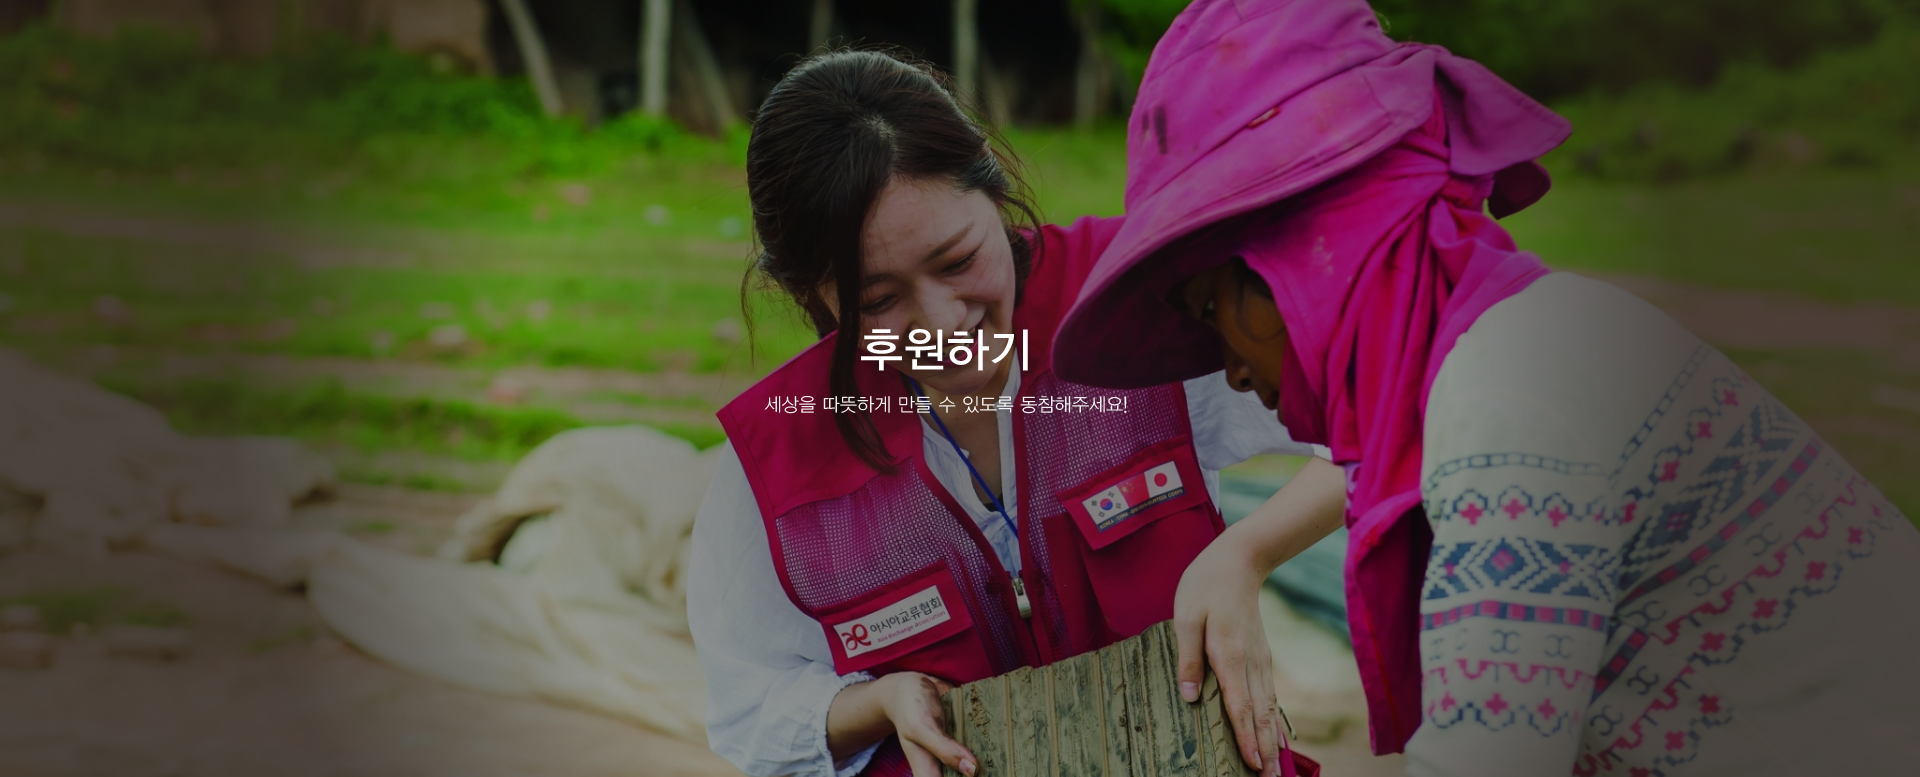
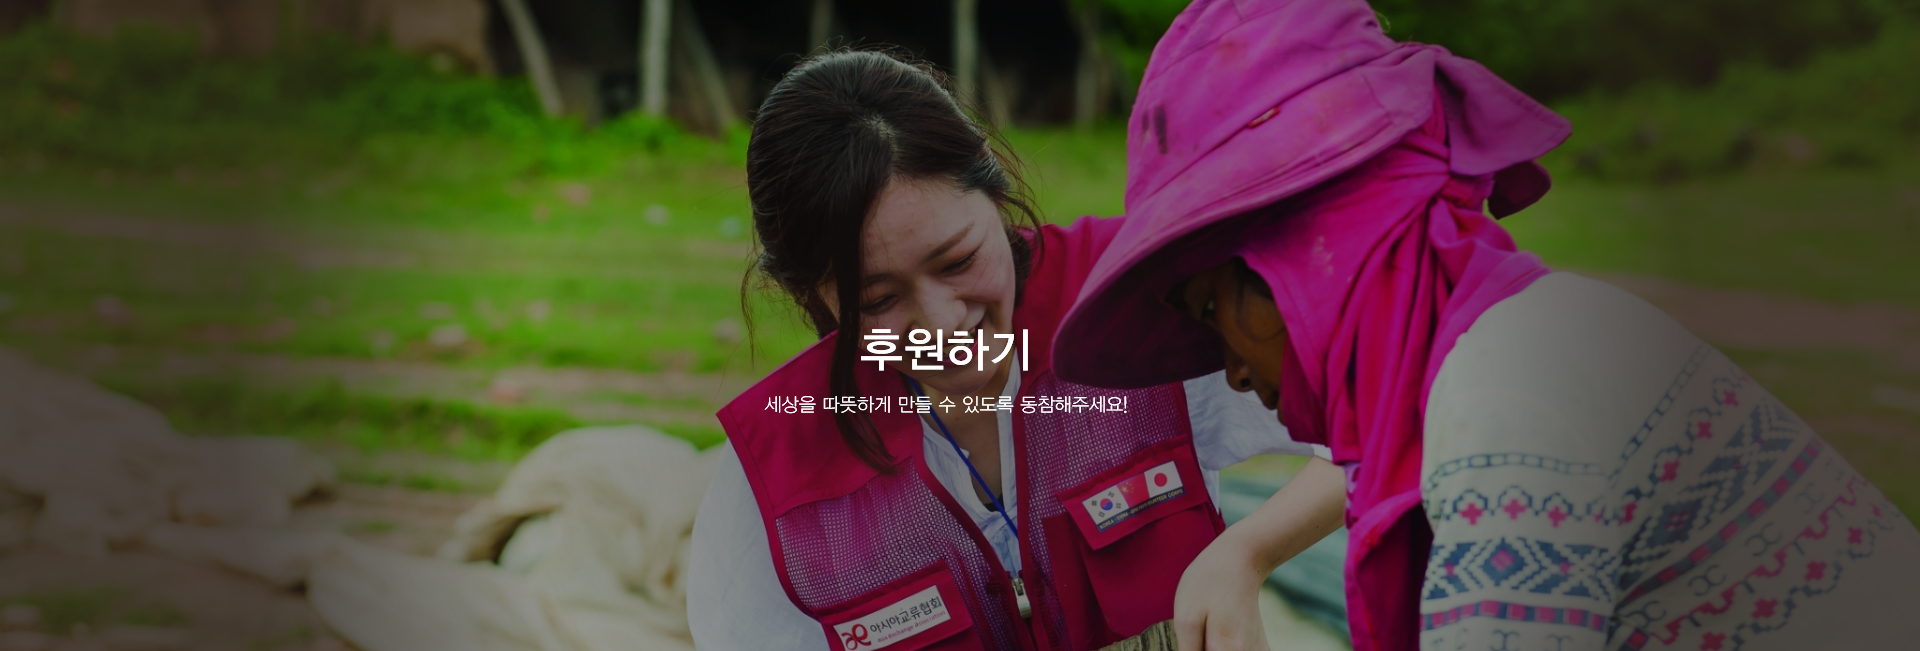
UI 전부 반응형으로 수정(배너슬라이드 제외)

diff --git a/GDJ47_JavaMyHand_semmi/src/main/webapp/css/Home.css b/GDJ47_JavaMyHand_semmi/src/main/webapp/css/Home.css
@@ -2,15 +2,13 @@
     margin:0;
     padding:0;
 }
-body{
-    width: 100%;
-}
 ul{
 	width:690px;
     list-style: none;
 }
 header{
-    width: 100%;
+	width: 100%;
+    justify-content : center;
     height:120px;
     position: fixed;
     z-index: 9999;
@@ -24,7 +22,7 @@ header{
 }
 
 .logo{
-    margin-left: 315px;
+    margin-left: 150px;
     margin-top: 37px;
 }
 .menubox{
@@ -52,9 +50,11 @@ header{
 #menuintext:hover > li{
     color: rgb(67, 126, 185);
 }
-.logintable1{
-	margin-top: 15px;
+.logintable{
 	margin-left: 90px;
+	width: 430px;
+}
+.logintable1{
 	border-spacing: 0 5px;
 	float: left;
 }
@@ -105,10 +105,10 @@ label{
 	background-image: url(../images/signuphover.png);
 }
 .hello{
-	margin-left: 100px;
+	margin-left: 90px;
+	width: 430px;
 	font-family: "Noto Sans KR";
 	font-weight: 300;
-	width: 300px;
 	height: 90px;
 	margin-top: 15px;
 
@@ -191,18 +191,21 @@ label{
 	float: left;
 }
 #slideShow{
-    width: 100%; 
+	width: 100%;
     height: 800px;
     position: relative;
     overflow:hidden;
 }
 .slides{
     display: flex;
-    width: 100%;
     position: absolute;
     left: 0;
     top: 0;
     overflow:hidden;
+}
+#slideShow{
+	width: 100%;
+    justify-content : center;
 }
 
 .controller>span{
@@ -233,12 +236,17 @@ label{
 }
 .content1{
     width: 100%;
-    height: 720px;
+	height: 720px;
+	text-align: center;
+}
+#conwrap{
+	margin-top: 110px;
+	width: 1300px;
+	display: inline-block;
 }
 #textbox{
-    position: absolute;
-    margin-top: 300px;
-    margin-left: 350px;
+	margin-top: 188px;
+	float: left;
 }
 #textbox>h1{
     font-weight: 700;
@@ -251,33 +259,42 @@ label{
     margin-top: 10px;
     color: rgb(85, 85, 85);
     font-family: "Noto Sans KR";
-
 }
-#box1,#box2,#box3{
-    position: absolute;
-    margin-top: 220px;
-    margin-left: 100px;
+#box1{
+	float: left;
     width: 250px;
     height: 280px;
     box-shadow: 0 5px 17px -8px rgb(85, 85, 85);
     text-align: center;
     background-color: white;
+    margin-left: 150px;
+    margin-top: 105px;
+}
+#box2,#box3{
+	float: left;
+    width: 250px;
+    height: 280px;
+    box-shadow: 0 5px 17px -8px rgb(85, 85, 85);
+    text-align: center;
+    background-color: white;
+    margin-left: 60px;
+    margin-top: 105px;
 }
 #box1{
-    margin-left: 640px;
+    
 }
 #box1>img{
     margin-top: 60px;
 
 }
 #box2{
-    margin-left: 940px;
+	
 }
 #box2>img{
     margin-top: 45px;
 }
 #box3{
-    margin-left: 1240px;
+    
 }
 #box3>img{
     margin-top: 62px;
@@ -295,8 +312,7 @@ label{
 }
 #fadein{
     position: absolute;
-    margin-left: 1068px;
-    margin-top: 115px;
+    margin-left: 765px;
     width: 835px;
     height: 490px;
     z-index: -9999;
@@ -315,15 +331,15 @@ label{
     background: url(../images/hover3.png);
     opacity: 1;
 }
-
-footer{
+.footerwrap{
     width: 100%;
+    justify-content : center;
+    display: flex;
     height: 135px;
     background-color: rgb(58,58,58);
-    display: flex;
 }
 #footerlogo>img{
-    margin: 33px 0 0 480px;
+    margin-top: 33px;
 }
 #footertext{
     width: 500px;

diff --git a/GDJ47_JavaMyHand_semmi/src/main/webapp/css/signup.css b/GDJ47_JavaMyHand_semmi/src/main/webapp/css/signup.css
@@ -1,5 +1,7 @@
 .signupbanner{
 	height: 650px;
+	background-position: center;
+	background-repeat: no-repeat;
 	background-image: url(../images/signupbanner.png);
 }
 .text{
@@ -15,13 +17,18 @@ h5{
 }
 .tablecontainer{
 	height:969px;
+	background-position: center;
+	background-repeat: no-repeat;
 	background-image: url(../images/signupback.png);
+	justify-content : center;
+}
+.tablecontainer input{
+	margin: 0px auto;
+	justify-items: center;
 }
 .signuptable{
-	margin-top: 80px;
-	margin-left: 730px;
+	margin: 47px auto;
 	border-spacing: 0 10px;
-
 }
 .signuptable tr, .signuptable td, .signuptable th{
 	height: 40px;
@@ -59,6 +66,10 @@ input:focus{
 	color: rgb(120,120,120);
 	padding-left: 8px;
 }
+.btn{
+	width: 500px;
+	margin: 0 auto;
+}
 #signUp, #cancel{
 	border: 0;
 	width: 225px;
@@ -68,9 +79,7 @@ input:focus{
 	font-weight: 500;
 	font-size: 18px;
 }
-#signUp{
-	margin-top: 40px;
-	margin-left: 732px;	
+#signUp{	
 	background-color: rgb(39, 113, 173);
 	cursor: pointer;
 }

diff --git a/GDJ47_JavaMyHand_semmi/src/main/webapp/css/donate.css b/GDJ47_JavaMyHand_semmi/src/main/webapp/css/donate.css
@@ -1,9 +1,8 @@
-body {
-	overflow-x: hidden;
-}
 .donatebanner{
 	height: 650px;
 	background-image: url(../images/donatebanner.png);
+	background-position: center;
+	background-repeat: no-repeat;
 }
 #description{
 	margin-top: 90px;
@@ -43,11 +42,12 @@ body {
 	background-image: url(../images/org4.png);
 }
 .donatewrap{
-	margin-left: 435px;
+	width: 100%;
+	justify-content : center;
 	margin-bottom: 130px;
 }
 .donatebox{
-	margin-top: 120px;
+	margin: 120px auto;
 	width: 1050px;
 	height: 345px;
 	background-image: url(../images/donatebox.png);
@@ -94,7 +94,7 @@ body {
 	cursor: pointer;
 }
 .newsSlide{
-	margin-top: 35px;
+	margin: 35px auto;
 	background-color: lightslategray;
 	width: 1050px;
 	height: 600px;

diff --git a/GDJ47_JavaMyHand_semmi/src/main/webapp/css/product.css b/GDJ47_JavaMyHand_semmi/src/main/webapp/css/product.css
@@ -1,6 +1,8 @@
 div#pageBar{margin-top:10px; text-align:center;}
 .productbanner{
 	height: 650px;
+	background-position: center;
+	background-repeat: no-repeat;
 	background-image: url(../images/productbanner.png);
 }
 

diff --git a/GDJ47_JavaMyHand_semmi/src/main/webapp/css/groups.css b/GDJ47_JavaMyHand_semmi/src/main/webapp/css/groups.css
@@ -1,5 +1,7 @@
 .groupsbanner{
 	height: 650px;
+	background-position: center;
+	background-repeat: no-repeat;
 	background-image: url(../images/groupsbanner.png);
 }
 .producttable{
